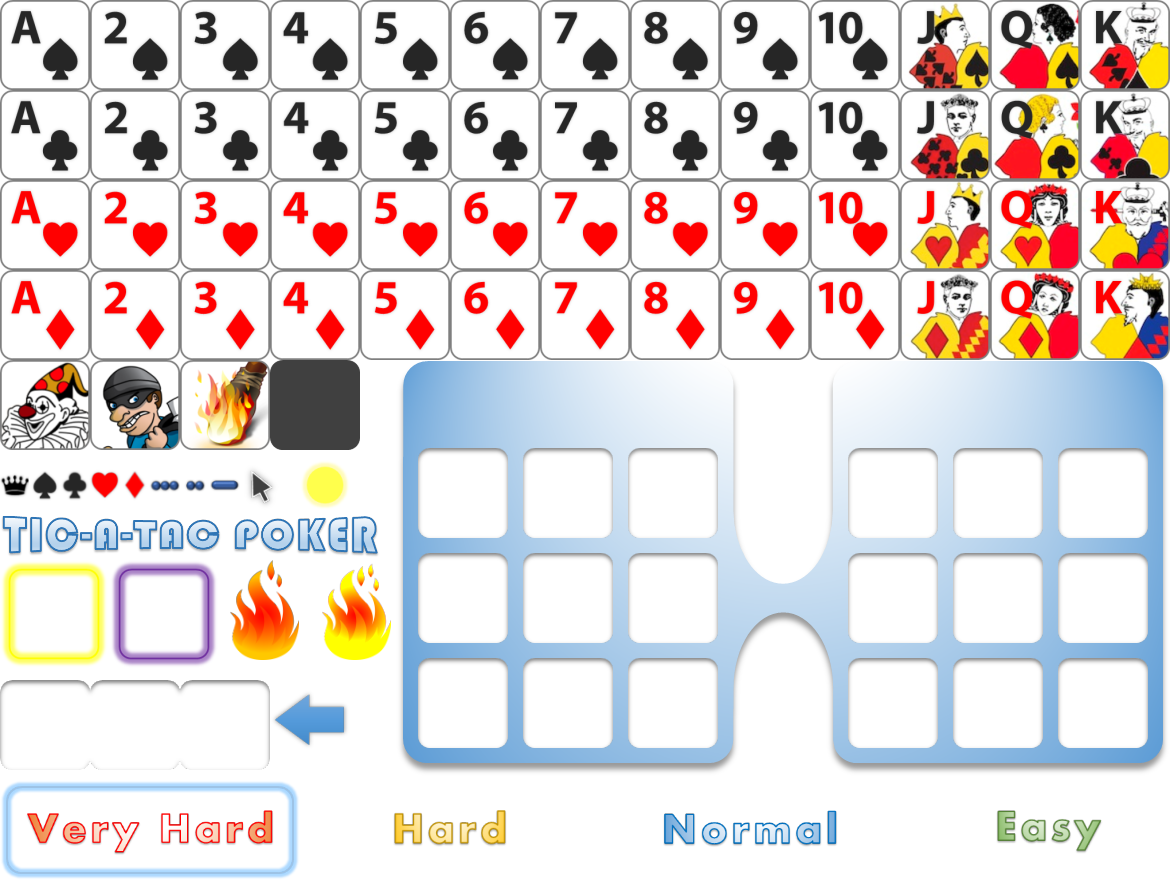
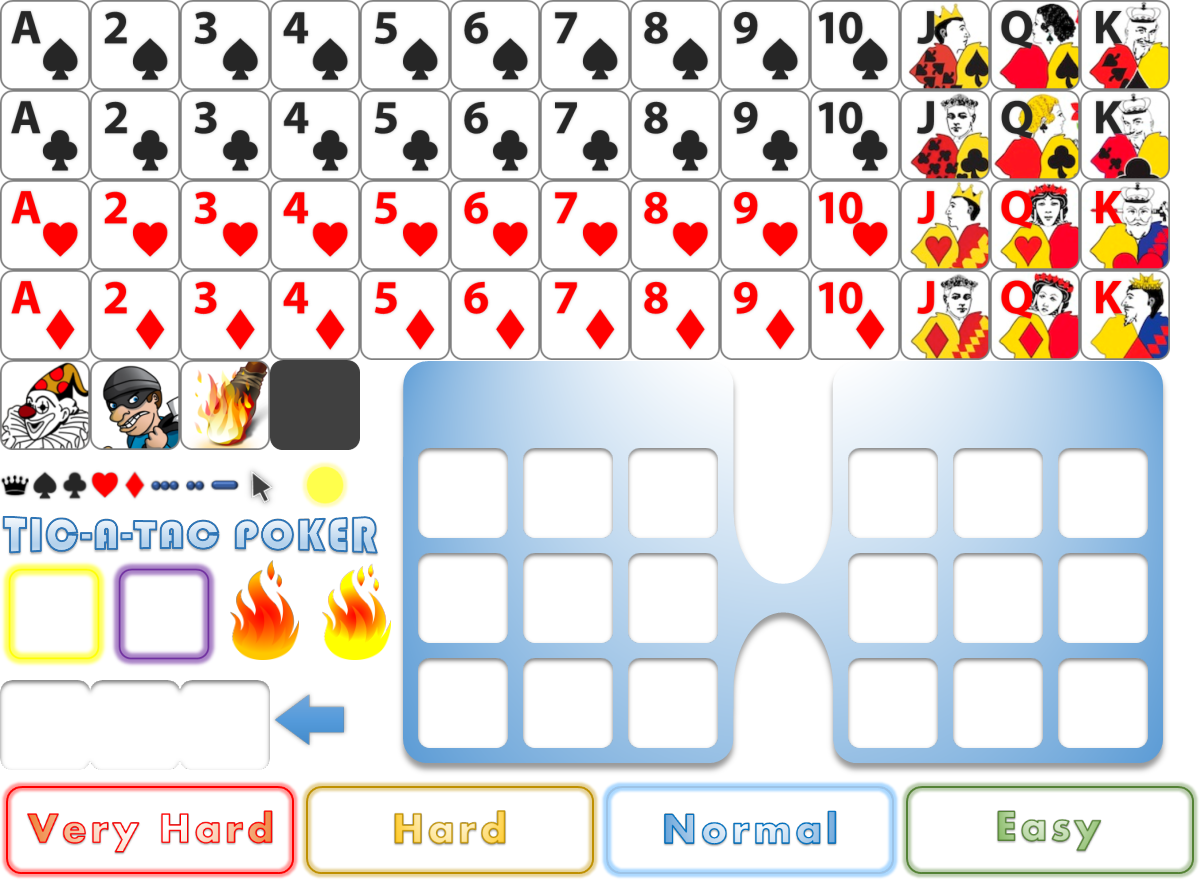
Eric

diff --git a/render.js b/render.js
@@ -117,13 +117,10 @@ function renderWelcome(){
 			}
 		welcome.globalAlpha = 1;
 		welcome.drawImage(image,0,515,380,45,290,aniLogoPosY,380,45);
-		if (focusDifficultyIndex > -1) {
-			welcome.drawImage(image,0,780,300,100,180+300*(focusDifficultyIndex%2),260+100*Math.floor(focusDifficultyIndex*0.5),300,100);
-			welcome.clearRect(200+300*(focusDifficultyIndex%2),280+100*Math.floor(focusDifficultyIndex*0.5),260,60);
+		for (var i = 0; i < 4; i++) {
+			if (focusDifficultyIndex == i) welcome.drawImage(image,300*i,780,300,100,180+300*(i%2),260+100*Math.floor(i*0.5),300,100);
+			else welcome.drawImage(image,20+300*i,800,260,60,200+300*(i%2),280+100*Math.floor(i*0.5),260,60);
 		}
-		for (var i = 0; i < 4; i++)
-			welcome.drawImage(image,20+300*i,800,260,60,200+300*(i%2),280+100*Math.floor(i*0.5),260,60);
-			
 		welcome.fillStyle = "#0033FF";
 		welcome.font = "30px Lilita One";
 		welcome.textAlign = "center";

diff --git a/main.html b/main.html
@@ -283,6 +283,9 @@ function gameLoop(){
 function gameDie(){
 	playSound(END_GAME);
 	$("#surface").fadeOut(500);
+	
+	for (var i = 0; i < 9; i++)
+		if (player.hands[i]) setInterval("aniHighlightHand(player.gridPosX,i)",20*i);
 }
 </script>
 </head>
